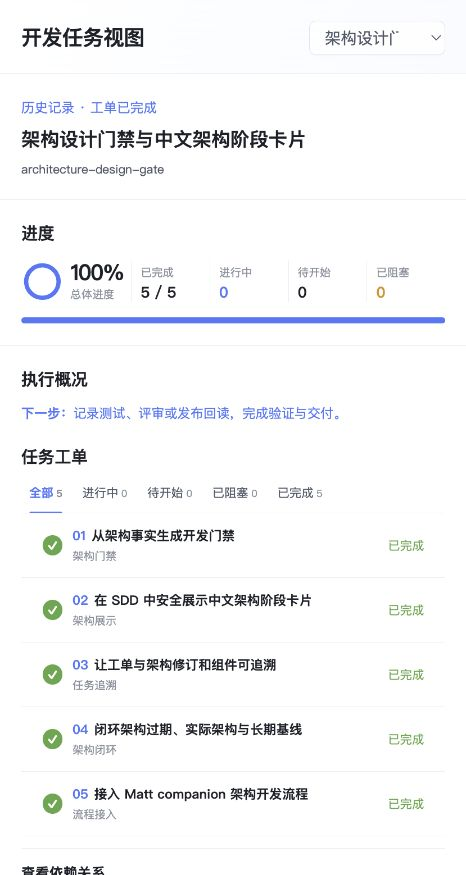
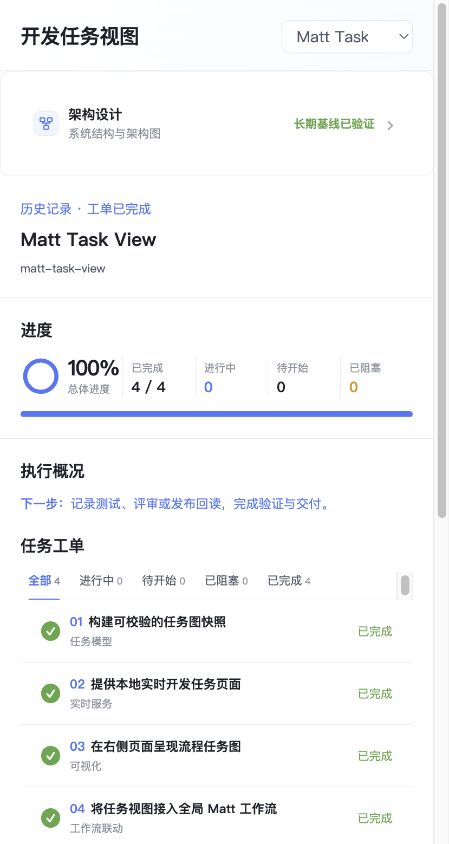
Keep architecture references separate from development tickets

diff --git a/src/public/app.js b/src/public/app.js
@@ -294,6 +294,18 @@ function architectureReviewContent(architecture) {
   return `<section class="architecture-section"><h4>实际架构复核</h4><dl class="architecture-compact-grid"><div><dt>实现完成</dt><dd>${yesNo(architecture.implementationComplete)}</dd></div><div><dt>交付核验</dt><dd>${yesNo(architecture.deliveryVerified)}</dd></div><div><dt>工具校验</dt><dd>${yesNo(architecture.toolValidationPassed)}</dd></div><div><dt>用户批准</dt><dd>${yesNo(architecture.userApproved)}</dd></div></dl><p>${escapeHtml(architecture.actual.reason || "尚未记录总体复核说明")}</p>${differences}${baseline}</section>`;
 }
 
+function architecturePreview(architecture) {
+  const route = `/architecture/${encodeURIComponent(architecture.feature)}/artifact.html`;
+  const staleNotice = architecture.status === "source_changed"
+    ? '<p class="architecture-warning"><strong>最后可信交付图：</strong>当前架构源已经变化，下面的图只代表回执仍完整的上一版。</p>'
+    : "";
+  return architecture.status === "not_required"
+    ? '<p class="architecture-skip">已记录无架构影响理由，本次不需要生成架构展示工件。</p>'
+    : architecture.artifactDisplayable
+    ? `${staleNotice}<div class="architecture-frame-shell"><span class="architecture-frame-label">ARCHIFY · 架构概览</span><a class="architecture-frame-open" href="${escapeHtml(`${route}?theme=light`)}" target="_blank" rel="noopener noreferrer">展开大图 ↗</a><iframe title="Archify 架构图概览" sandbox="allow-scripts" referrerpolicy="no-referrer" loading="lazy" src="${escapeHtml(`${route}?embed=1&theme=light`)}"></iframe><span class="architecture-frame-overview">窄面板只显示架构概览；节点阅读请展开大图。</span></div>`
+    : '<p class="architecture-warning"><strong>架构图不可展示：</strong>缺少可信回执或展示工件校验失败。</p>';
+}
+
 function architectureContent(architectures, tasks = []) {
   if (!architectures.length) return '<p class="sdd-empty">此旧功能没有架构记录；兼容展示且不据此推断架构已批准。</p>';
   if (architectures.length > 1) {
@@ -301,7 +313,6 @@ function architectureContent(architectures, tasks = []) {
   }
 
   const architecture = architectures[0];
-  const route = `/architecture/${encodeURIComponent(architecture.feature)}/artifact.html`;
   const components = architecture.components?.length
     ? `<ul class="architecture-components">${architecture.components.map((component) => `<li><strong>${escapeHtml(component.label)}</strong><span>${escapeHtml(component.id)}</span></li>`).join("")}</ul>`
     : '<p class="sdd-empty">尚未记录受影响组件。</p>';
@@ -309,16 +320,8 @@ function architectureContent(architectures, tasks = []) {
   const componentsNotice = architecture.status === "source_changed"
     ? '<p class="architecture-warning">这些组件来自当前已修改的架构源，不属于下面的最后可信交付图；重新交付并批准前不会用于工单绑定。</p>'
     : "";
-  const staleNotice = architecture.status === "source_changed"
-    ? '<p class="architecture-warning"><strong>最后可信交付图：</strong>当前架构源已经变化，下面的图只代表回执仍完整的上一版。</p>'
-    : "";
-  const artifact = architecture.status === "not_required"
-    ? '<p class="architecture-skip">已记录无架构影响理由，本次不需要生成架构展示工件。</p>'
-    : architecture.artifactDisplayable
-    ? `${staleNotice}<div class="architecture-frame-shell"><span class="architecture-frame-label">ARCHIFY · 架构概览</span><a class="architecture-frame-open" href="${escapeHtml(`${route}?theme=light`)}" target="_blank" rel="noopener noreferrer">展开大图 ↗</a><iframe title="Archify 架构图概览" sandbox="allow-scripts" referrerpolicy="no-referrer" loading="lazy" src="${escapeHtml(`${route}?embed=1&theme=light`)}"></iframe><span class="architecture-frame-overview">窄面板只显示架构概览；节点阅读请展开大图。</span></div>`
-    : '<p class="architecture-warning"><strong>架构图不可展示：</strong>缺少可信回执或展示工件校验失败。</p>';
   const codeEvidence = architecture.mode === "greenfield" ? "暂无代码（规划阶段）" : "尚未记录可验证代码证据";
-  return `<div class="architecture-next-action"><span aria-hidden="true">→</span><p><strong>下一步</strong>${escapeHtml(architecture.nextStep)}</p></div><dl class="architecture-compact-grid"><div><dt>设计类型</dt><dd>${escapeHtml(architectureModeLabel(architecture.mode))}</dd></div><div><dt>架构变化</dt><dd>${escapeHtml(architecture.reason || "尚未记录")}</dd></div><div><dt>代码证据</dt><dd>${escapeHtml(codeEvidence)}</dd></div></dl><section class="architecture-section"><h4>生命周期</h4><dl class="architecture-lifecycle"><div><dt>当前架构</dt><dd>${escapeHtml(architectureLifecycleLabel(architecture.lifecycle?.current))}</dd></div><div><dt>目标架构</dt><dd>${escapeHtml(architectureLifecycleLabel(architecture.lifecycle?.target))}</dd></div><div><dt>实际架构</dt><dd>${escapeHtml(architectureLifecycleLabel(architecture.lifecycle?.actual))}</dd></div><div><dt>长期基线</dt><dd>${escapeHtml(architectureLifecycleLabel(architecture.lifecycle?.baseline))}</dd></div></dl></section>${artifact}${architectureReviewContent(architecture)}<section class="architecture-section"><h4>修订绑定</h4><dl class="architecture-revisions"><div><dt>当前架构摘要</dt><dd><code>${escapeHtml(architectureHash(architecture.hashes?.currentSpecification))}</code></dd></div><div><dt>交付回执摘要</dt><dd><code>${escapeHtml(architectureHash(architecture.hashes?.receiptSpecification))}</code></dd></div><div><dt>批准修订</dt><dd><code>${escapeHtml(architectureHash(architecture.hashes?.approvedSpecification))}</code></dd></div></dl></section><section class="architecture-section"><h4>${componentsHeading}</h4>${componentsNotice}${components}</section><section class="architecture-section"><h4>绑定工单</h4>${architectureBindings(architecture, tasks)}</section>`;
+  return `<div class="architecture-next-action"><span aria-hidden="true">→</span><p><strong>下一步</strong>${escapeHtml(architecture.nextStep)}</p></div><dl class="architecture-compact-grid"><div><dt>设计类型</dt><dd>${escapeHtml(architectureModeLabel(architecture.mode))}</dd></div><div><dt>架构变化</dt><dd>${escapeHtml(architecture.reason || "尚未记录")}</dd></div><div><dt>代码证据</dt><dd>${escapeHtml(codeEvidence)}</dd></div></dl><section class="architecture-section"><h4>生命周期</h4><dl class="architecture-lifecycle"><div><dt>当前架构</dt><dd>${escapeHtml(architectureLifecycleLabel(architecture.lifecycle?.current))}</dd></div><div><dt>目标架构</dt><dd>${escapeHtml(architectureLifecycleLabel(architecture.lifecycle?.target))}</dd></div><div><dt>实际架构</dt><dd>${escapeHtml(architectureLifecycleLabel(architecture.lifecycle?.actual))}</dd></div><div><dt>长期基线</dt><dd>${escapeHtml(architectureLifecycleLabel(architecture.lifecycle?.baseline))}</dd></div></dl></section>${architecturePreview(architecture)}${architectureReviewContent(architecture)}<section class="architecture-section"><h4>修订绑定</h4><dl class="architecture-revisions"><div><dt>当前架构摘要</dt><dd><code>${escapeHtml(architectureHash(architecture.hashes?.currentSpecification))}</code></dd></div><div><dt>交付回执摘要</dt><dd><code>${escapeHtml(architectureHash(architecture.hashes?.receiptSpecification))}</code></dd></div><div><dt>批准修订</dt><dd><code>${escapeHtml(architectureHash(architecture.hashes?.approvedSpecification))}</code></dd></div></dl></section><section class="architecture-section"><h4>${componentsHeading}</h4>${componentsNotice}${components}</section><section class="architecture-section"><h4>绑定工单</h4>${architectureBindings(architecture, tasks)}</section>`;
 }
 
 function sddCard(name, state, label, detail, content, open = false, icon = "spec", className = "") {
@@ -368,11 +371,13 @@ function featureTitle(graph, feature) {
 }
 
 function workspaceMarkup(graph) {
-  const completed = graph.features.filter((feature) => featureIsHistory(graph, feature));
-  const active = graph.features.filter((feature) => !completed.includes(feature));
+  const references = graph.specs.filter((spec) => spec.view === "architecture").map((spec) => spec.feature);
+  const features = graph.features.filter((feature) => !references.includes(feature));
+  const completed = features.filter((feature) => featureIsHistory(graph, feature));
+  const active = features.filter((feature) => !completed.includes(feature));
   const priority = (feature) => graph.tasks.some((task) => task.feature === feature && task.status === "in_progress") ? 0 : graph.tasks.some((task) => task.feature === feature && task.status === "blocked") ? 1 : 2;
   active.sort((a, b) => priority(a) - priority(b));
-  if (followCurrentFeature || !["overview", ...graph.features].includes(selectedFeature)) {
+  if (followCurrentFeature || !["overview", ...features].includes(selectedFeature)) {
     const nextFeature = active[0] || "overview";
     if (selectedFeature !== nextFeature) selectedTaskStatus = "all";
     selectedFeature = nextFeature;
@@ -388,8 +393,13 @@ function workspaceMarkup(graph) {
     const taskContent = `<section class="execution-panel"><h2 class="section-title">任务工单</h2>${taskTabs(tasks)}<ul class="task-list">${taskList(tasks, graph)}</ul>${renderGraph(graph, tasks)}</section>`;
     content = `<section class="section feature-heading"><small>${completed.includes(selectedFeature) ? "历史记录 · 工单已完成" : "当前功能"}</small><h2>${escapeHtml(featureTitle(graph, selectedFeature))}</h2><p>${escapeHtml(selectedFeature)}</p></section><section class="section progress-section">${progressPanel(summary)}</section>${graph.errors.length ? `<section class="error"><strong>计划需要修正</strong><ul>${graph.errors.map((error) => `<li>${escapeHtml(error.message)}${error.path ? `<small class="source-path">${escapeHtml(displayPath(error.path))}</small>` : ""}</li>`).join("")}</ul></section>` : ""}${sddFlow(graph, tasks, summary, taskContent)}`;
   }
+  const architectureReferences = references.map((feature) => {
+    const entry = (graph.architectures || []).find((item) => item.feature === feature);
+    const presentation = architecturePresentation(entry ? [entry] : [], []);
+    return sddCard("架构设计", presentation.state, presentation.label, "系统结构与架构图", entry ? architecturePreview(entry) : '<p class="architecture-warning">架构图尚未记录。</p>', false, "architecture", "architecture-reference");
+  }).join("");
   const history = completed.length ? `<details class="feature-history"${historyOpen ? " open" : ""}><summary>已完成 · ${completed.length} 个功能<span>查看历史记录</span></summary><p>这里收纳已完成的工单，不代表发布或验收证据已齐全。</p><ul>${completed.map((feature) => `<li><button type="button" data-feature-record="${escapeHtml(feature)}"><strong>${escapeHtml(featureTitle(graph, feature))}</strong><small>${escapeHtml(feature)} · ${graph.tasks.filter((task) => task.feature === feature).length} 项工单</small><span>查看记录 →</span></button></li>`).join("")}</ul></details>` : "";
-  return `<div class="shell">${header}${content}${history}<p class="updated">基于本地 Markdown 规格与任务图 · 自动刷新</p></div>`;
+  return `<div class="shell">${header}${architectureReferences ? `<section class="section sdd-cards">${architectureReferences}</section>` : ""}${content}${history}<p class="updated">基于本地 Markdown 规格与任务图 · 自动刷新</p></div>`;
 }
 
 function render(graph) {

diff --git a/README.md b/README.md
@@ -8,7 +8,7 @@
 
 ![当前工作概览](docs/images/当前工作概览.png)
 
-> 实际运行截图：本项目 9 张开发票据已完成，验证与交付独立显示“待记录”。截图仅代表拍摄时的项目状态。
+> 实际运行截图：本项目展示 4 张实际开发工单，均已完成；架构内容只从架构图入口查看，验证与交付独立显示“待记录”。截图仅代表拍摄时的项目状态。
 
 [界面导览](docs/界面导览.md) · [快速运行](#快速运行) · [功能清单](#功能说明) · [认证与请求流程](docs/认证与请求流程.md)
 
@@ -26,13 +26,17 @@ matt-task-view serve --port 0
 
 ## 界面展示
 
+### 架构图与开发工单分开
+
+顶部“架构设计”入口只展示系统架构图。“架构设计门禁”资料不再作为开发功能、工单或任务依赖图重复列出。开发区域只显示实际功能的开发工单。
+
 ### 当前工作优先，历史按需查看
 
 默认选择有进行中工单的功能，没有时选择其他待处理功能；每次聚焦一个功能。工单全部完成、没有计划诊断和待处理架构状态的功能收进“已完成”。工单完成但实际架构仍待复核的功能继续留在当前工作。
 
 | 工作概览 | 单个功能的工单 |
 | --- | --- |
-| ![完成工单收进历史](docs/images/当前工作概览.png) | ![历史功能的五张工单](docs/images/历史功能工单.png) |
+| ![完成工单收进历史](docs/images/当前工作概览.png) | ![实际功能的四张工单](docs/images/历史功能工单.png) |
 
 以上是 Codex 侧栏内的网页实拍，不含 Codex 应用外框。本仓库当前全部工单已完成，因此默认展示历史入口，没有虚构进行中任务。
 
@@ -121,6 +125,8 @@ your-project/
 └── docs/architecture/                  # 经外部流程提升的长期基线
 ```
 
+架构参考资料可在 `spec.md` 首个二级标题之前显式写入 `**View:** architecture`。该标记仅控制界面分类：资料只在架构图入口展示，不进入开发功能选择、进度、历史工单或任务依赖图。原始票据、API 快照和依赖／架构校验保留，其他功能不会仅因名称含“架构”而被隐藏。
+
 普通文档任务可在架构决定中记录 `required=false` 和非空跳过理由，省略票据的架构绑定字段。旧项目没有架构文件时保留兼容显示，但这不代表已通过新工作流要求的显式判断。
 
 最小票据示例：
@@ -168,7 +174,7 @@ flowchart LR
 npm test
 ```
 
-使用 Node.js 内置测试运行器；本次发布在 Node.js `v24.13.1` 下通过 108 项测试，覆盖任务图、Archify 适配与交付、架构门禁、生命周期、渲染、HTTP 路由、路径拒绝和 SSE。
+使用 Node.js 内置测试运行器；本次发布在 Node.js `v24.13.1` 下通过 110 项测试，覆盖任务图、Archify 适配与交付、架构门禁、生命周期、渲染、HTTP 路由、路径拒绝和 SSE。
 
 | 路径 | 职责 |
 | --- | --- |

diff --git a/docs/界面导览.md b/docs/界面导览.md
@@ -1,6 +1,6 @@
 # 开发任务视图 · 界面导览
 
-图片来自本仓库正式服务在 Codex 侧栏内的网页实拍，拍摄于 2026-09-04，不含应用外框。当前两项功能的 9 张工单均已完成，截图没有制造进行中或受阻状态。
+图片来自本仓库正式服务在 Codex 侧栏内的网页实拍，拍摄于 2026-09-04，不含应用外框。开发区只展示 Matt Task View 的 4 张实际开发工单，均已完成，截图没有制造进行中或受阻状态。
 
 ## 当前工作与历史
 
@@ -8,7 +8,9 @@
 
 默认聚焦待处理功能，优先显示有进行中工单的功能。全部完成时显示“当前没有待开发工单”，历史规格、架构与工单收在“已完成”。工单完成但仍有架构门禁、实际复核或基线提升待处理的功能，不会归入历史。
 
-“架构设计门禁与中文架构阶段卡片”是本工具曾经开发的一项功能，不是每个项目都必须重做的流程阶段。
+“架构设计门禁与中文架构阶段卡片”归入架构参考资料，从顶部带图标的“架构设计”入口查看。它不会再出现在开发功能、工单历史、进度或任务依赖图中。
+
+![架构图独立入口](images/架构图独立入口.png)
 
 ## 工单是执行主界面
 

diff --git a/.scratch/architecture-design-gate/spec.md b/.scratch/architecture-design-gate/spec.md
@@ -2,6 +2,8 @@
 
 **Status:** ready-for-agent
 
+**View:** architecture
+
 ## Problem Statement
 
 开发任务视图当前从“规格与边界”直接进入“任务计划”，只能回答任务按什么顺序执行，不能回答系统应该怎样变化。系统架构关系与任务依赖关系因此容易混在一起；新项目也缺少一个明确、可批准的规划架构起点。直接把 Archify 查看器嵌进页面只能增加一张图，不能保证任务确实基于某个已批准架构版本拆分，也无法在架构变化后阻止新任务继续使用旧计划。

diff --git a/CONTEXT.md b/CONTEXT.md
@@ -31,3 +31,7 @@
 ## 任务依赖
 
 一项开发工作开始前必须完成的其他工作。任务依赖构成执行 DAG，与架构关系分别建模。
+
+## 架构参考资料
+
+规格顶部显式标记 `**View:** architecture` 的目录只作为架构图展示来源，不列入开发功能、进度、工单历史或任务依赖图。原始票据和后端依赖、架构校验保留；不根据功能名称自动分类。开发工单区域只展示实际功能开发内容。
